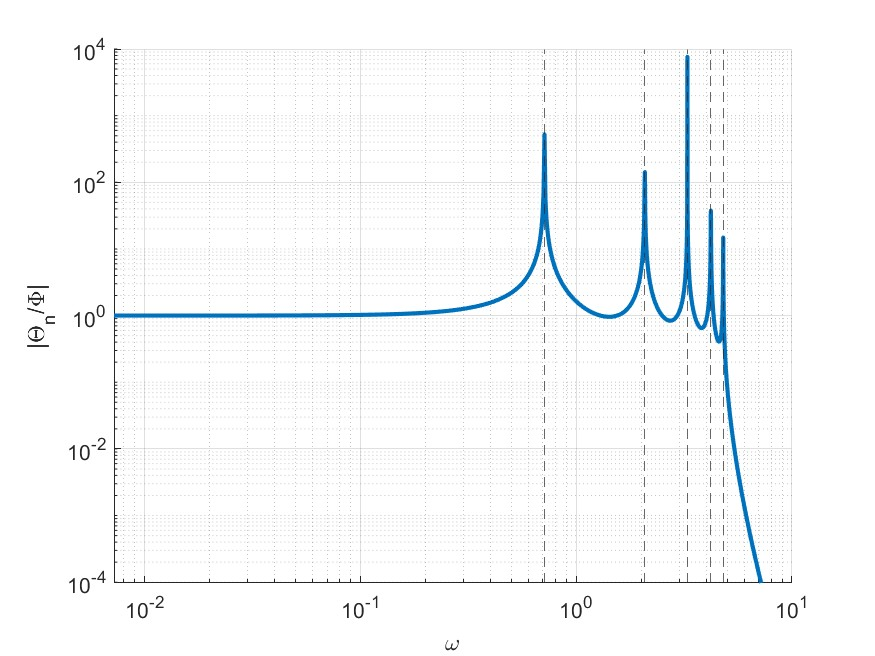
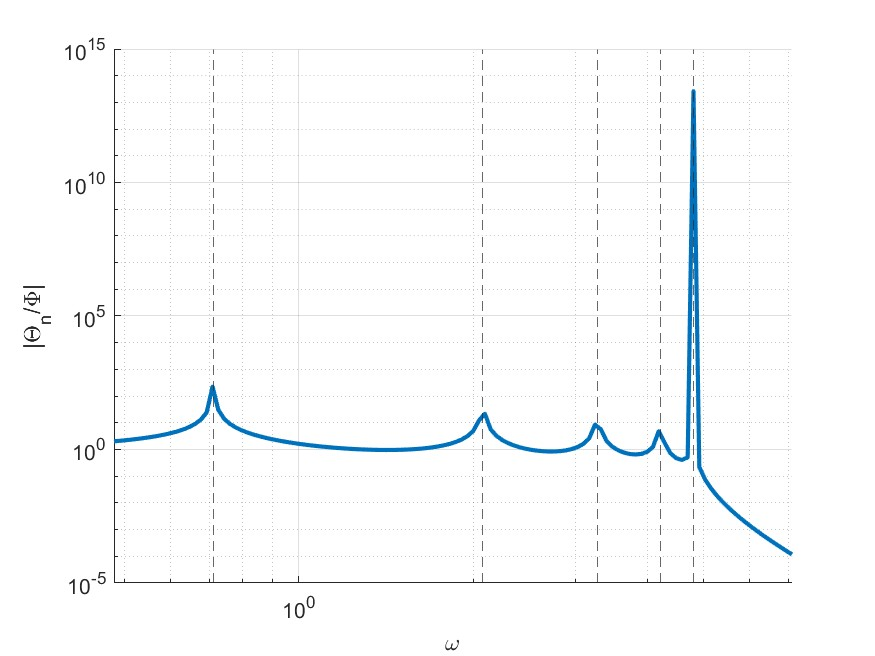
Better Plots and Fixed Part D Output

diff --git a/main.m b/main.m
@@ -222,16 +222,18 @@ for na1 = 1:n - 1
         end
     end
 end
-% Inertia Matrix
-M = f_M(n, m, I, Ia);
-% Damping Matrix
-C = f_C(n, m, na, ca);
-% Stiffness Matrix
-K = f_K(n, m, k);
-% Natural Frequencies in rad/s
-w = f_w(n, m, M, K);
-% Plot
-plot_T_range(n, w, M, C, K, F, P_, 'Part D Transmissibility')
+if ~isinf(T_minimax)
+    % Inertia Matrix
+    M = f_M(n, m, I, Ia);
+    % Damping Matrix
+    C = f_C(n, m, na, ca);
+    % Stiffness Matrix
+    K = f_K(n, m, k);
+    % Natural Frequencies in rad/s
+    w = f_w(n, m, M, K);
+    % Plot
+    plot_T_range(n, w, M, C, K, F, P_, 'Part D Transmissibility')
+end
 % Elapsed Time
 c_elapsed = toc(c_start);
 
@@ -242,11 +244,15 @@ file.print("[-] Elapsed Time: %5.1f s", c_elapsed);
 file.prvec("[-] na", na, "%7.0f");
 file.prvec("[-] Ia", Ia, "%7.3f");
 file.prvec("[-] ca", ca, "%7.3f");
-file.prmat("[-] M", M, "%7.1f");
-file.prmat("[-] C", C, "%7.1f");
-file.prmat("[-] K", K, "%7.1f");
-for j = 1:n + m
-    file.print("[*] w_%1.0f = %5.3f %5s", j, w(j), "rad/s");
+if ~isinf(T_minimax)
+    file.prmat("[-] M", M, "%7.1f");
+    file.prmat("[-] C", C, "%7.1f");
+    file.prmat("[-] K", K, "%7.1f");
+    for j = 1:n + m
+        file.print("[*] w_%1.0f = %5.3f %5s", j, w(j), "rad/s");
+    end
+else
+    file.print("[!] Could not found even a single finite solution!");
 end
 
 % Inertia Matrix
@@ -329,7 +335,6 @@ function [Ia, ca, T_minimax] = f_T_minimax(n, m, na, u, I, k)
     x_options = optimoptions('fminimax');
     x_options.MaxIterations = 100;
     x_options.MaxFunctionEvaluations = 300;
-    x_options.Display = 'iter';
     % Optimization Results
     [x, ~, x_maxfval] = fminimax(x_f, x_0, [], [], x_Aeq, x_beq, x_lb, [], [], x_options);
     % Absorber Inertias
@@ -374,7 +379,7 @@ end
 % Plot Transmisibility Range
 function plot_T_range(n, w, M, C, K, F, P_, title)
     % Excitation Frequency Range
-    w_e_range = max(w) * (0:1.5e-3:1.5);
+    w_e_range = max(w) * (10.^(-1:0.01:log10(1.5)));
     % Transmissibility Range
     T_range = f_T_range(n, w_e_range, M, C, K, F, P_);
     % Plot
